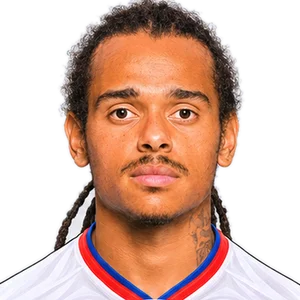
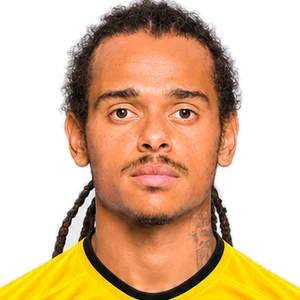
Portraits planche G2
Claude-Session: https://claude.ai/code/session_014bWuiPShrCqQyYskQc5RoJ

diff --git a/index.html b/index.html
@@ -1029,7 +1029,7 @@ const COUNTRY={"FR":"France","PT":"Portugal","RO":"Roumanie","DE":"Allemagne","B
 function flag(c){ if(!c) return ""; if(c==="ENG") return "\u{1F3F4}\u{E0067}\u{E0062}\u{E0065}\u{E006E}\u{E0067}\u{E007F}"; return String.fromCodePoint(...[...c].map(x=>0x1F1E6+x.charCodeAt(0)-65)); }
 const POS_NAME={GB:"Gardien",DC:"Défenseur central",DD:"Latéral droit",DG:"Latéral gauche",MDC:"Milieu défensif",MC:"Milieu central",MOC:"Meneur de jeu",AG:"Ailier gauche",AD:"Ailier droit",BU:"Avant-centre",COACH:"Entraîneur"};
 // Portraits illustrés disponibles (fichiers img/cartes/<id>.webp)
-const IMGV=2;
+const IMGV=3;
 const PORTRAITS=new Set(["abdul-kader-keita", "abner-vinicius", "adam-karabec", "afonso-moreira", "ainsley-maitland-niles", "alain-caveglia", "alejandro-rodriguez", "alexandre-lacazette", "aly-cissokho", "amine-gouiri", "anthony-lopes", "anthony-reveillere", "arnold-mvuemba", "bafetimbi-gomis", "bakary-kone", "benoit-pedretti", "bertrand-traore", "bradley-barcola", "bruno-guimaraes", "bryan-bergougnoux", "castello-lukeba", "cesar-delgado", "christophe-delmotte", "christophe-jallet", "ciprian-tatarusanu", "claudio-beauvue", "claudio-cacapa", "clement-grenier", "clinton-mata", "clinton-n-jie", "coach-alain-perrin", "coach-bruno-genesio", "coach-carlos-vicens", "coach-claude-puel", "coach-fabio-grosso", "coach-gerard-houllier", "coach-hubert-fournier", "coach-jacques-santini", "coach-jorge-maciel", "coach-laurent-blanc", "coach-paul-le-guen", "coach-paulo-fonseca", "coach-peter-bosz", "coach-pierre-sage", "coach-remi-garde", "coach-rudi-garcia", "coach-sylvinho", "corentin-tolisso", "cris", "damien-da-silva", "david-linares", "dejan-lovren", "dominik-greif", "duje-caleta-car", "ederson", "edmilson", "emanuel-mammana", "emerson-palmieri", "eric-abidal", "eric-carriere", "eric-deflandre", "ernest-nuamah", "fabio-grosso", "felix-bacher", "ferland-mendy", "fernando-marcal", "florent-laville", "florent-malouda", "francois-clerc", "fred", "frederic-kanoute", "frederic-nee", "georges-mikautadze", "gift-orban", "giovane-elber", "gregory-coupet", "gueida-fofana", "hans-hateboer", "hatem-ben-arfa", "henri-bedimo", "henrique", "houssem-aouar", "hugo-lloris", "islam-slimani", "jacek-bak", "jake-o-brien", "jason-denayer", "jean-alain-boumsong", "jean-ii-makoun", "jean-lucas", "jean-marc-chanelet", "jeff-reine-adelaide", "jeremie-brechet", "jeremy-berthod", "jeremy-clement", "jeremy-morel", "jeremy-pied", "jeremy-toulalan", "jerome-boateng", "jimmy-briand", "joachim-andersen", "johann-lepenant", "john-carew", "jordan-ferri", "jordan-veretout", "julian-pollersbeck", "julien-duranville", "juninho", "kail-boudache", "karim-benzema", "karl-toko-ekambi", "kayne-bonnevie", "keito-nakamura", "kenny-tete", "khalis-merah", "kim-kallstrom", "leo-dubois", "lisandro-lopez", "lois-openda", "lucas-paqueta", "lucas-perri", "lucas-tousart", "mads-bidstrup", "mahamadou-diarra", "mahamadou-diawara", "malick-fofana", "malo-gusto", "mama-balde", "mapou-yanga-mbiwa", "marc-vivien-foe", "marcelo", "mariano-diaz", "martin-satriano", "martin-terrier", "mathieu-bodmer", "mathieu-gorgelin", "mathieu-valbuena", "mattia-de-sciglio", "maxence-caqueret", "maxime-gonalons", "maxwel-cornet", "memphis-depay", "michael-essien", "michel-bastos", "miguel-lopes", "milan-baros", "milan-bisevac", "miralem-pjanic", "mohamed-yattara", "mouctar-diakhaby", "mouhamadou-dabo", "moussa-dembele", "moussa-niakhate", "myziane-maolida", "nabil-fekir", "nemanja-matic", "nicolas-nkoulou", "nicolas-puydebois", "nicolas-tagliafico", "nilmar", "noah-nartey", "orel-mangala", "pape-cheikh-diop", "patrick-muller", "paul-akouokou", "pavel-sulc", "peguy-luyindula", "philippe-violeau", "pierre-alain-frau", "pierre-laigle", "rachid-ghezzal", "rafael", "rayan-cherki", "remi-himbert", "remy-descamps", "remy-vercoutre", "ruben-kluivert", "sael-kumbedi", "said-benrahma", "samuel-umtiti", "sebastien-squillaci", "serge-blanc", "sergi-darder", "sidney-govou", "sinaly-diomande", "sonny-anderson", "steed-malbranque", "steve-marlet", "sylvain-wiltord", "tanguy-ndombele", "tanner-tessmann", "tete", "thiago-almada", "thiago-mendes", "tiago", "tino-kadewere", "tony-vairelles", "tyler-morton", "vikash-dhorasoo", "wilfried-zaha", "willem-geubbels", "yassine-benzia", "yoann-gourcuff", "youssouf-kone", "zachary-athekame"]);
 function cardTier(p){ return rarity(p); }
 const TIER_TAG={myth:"MYTHIQUE",icon:"LÉGENDAIRE",gold:"ÉPIQUE",silver:"RARE",bronze:"COMMUNE"};
